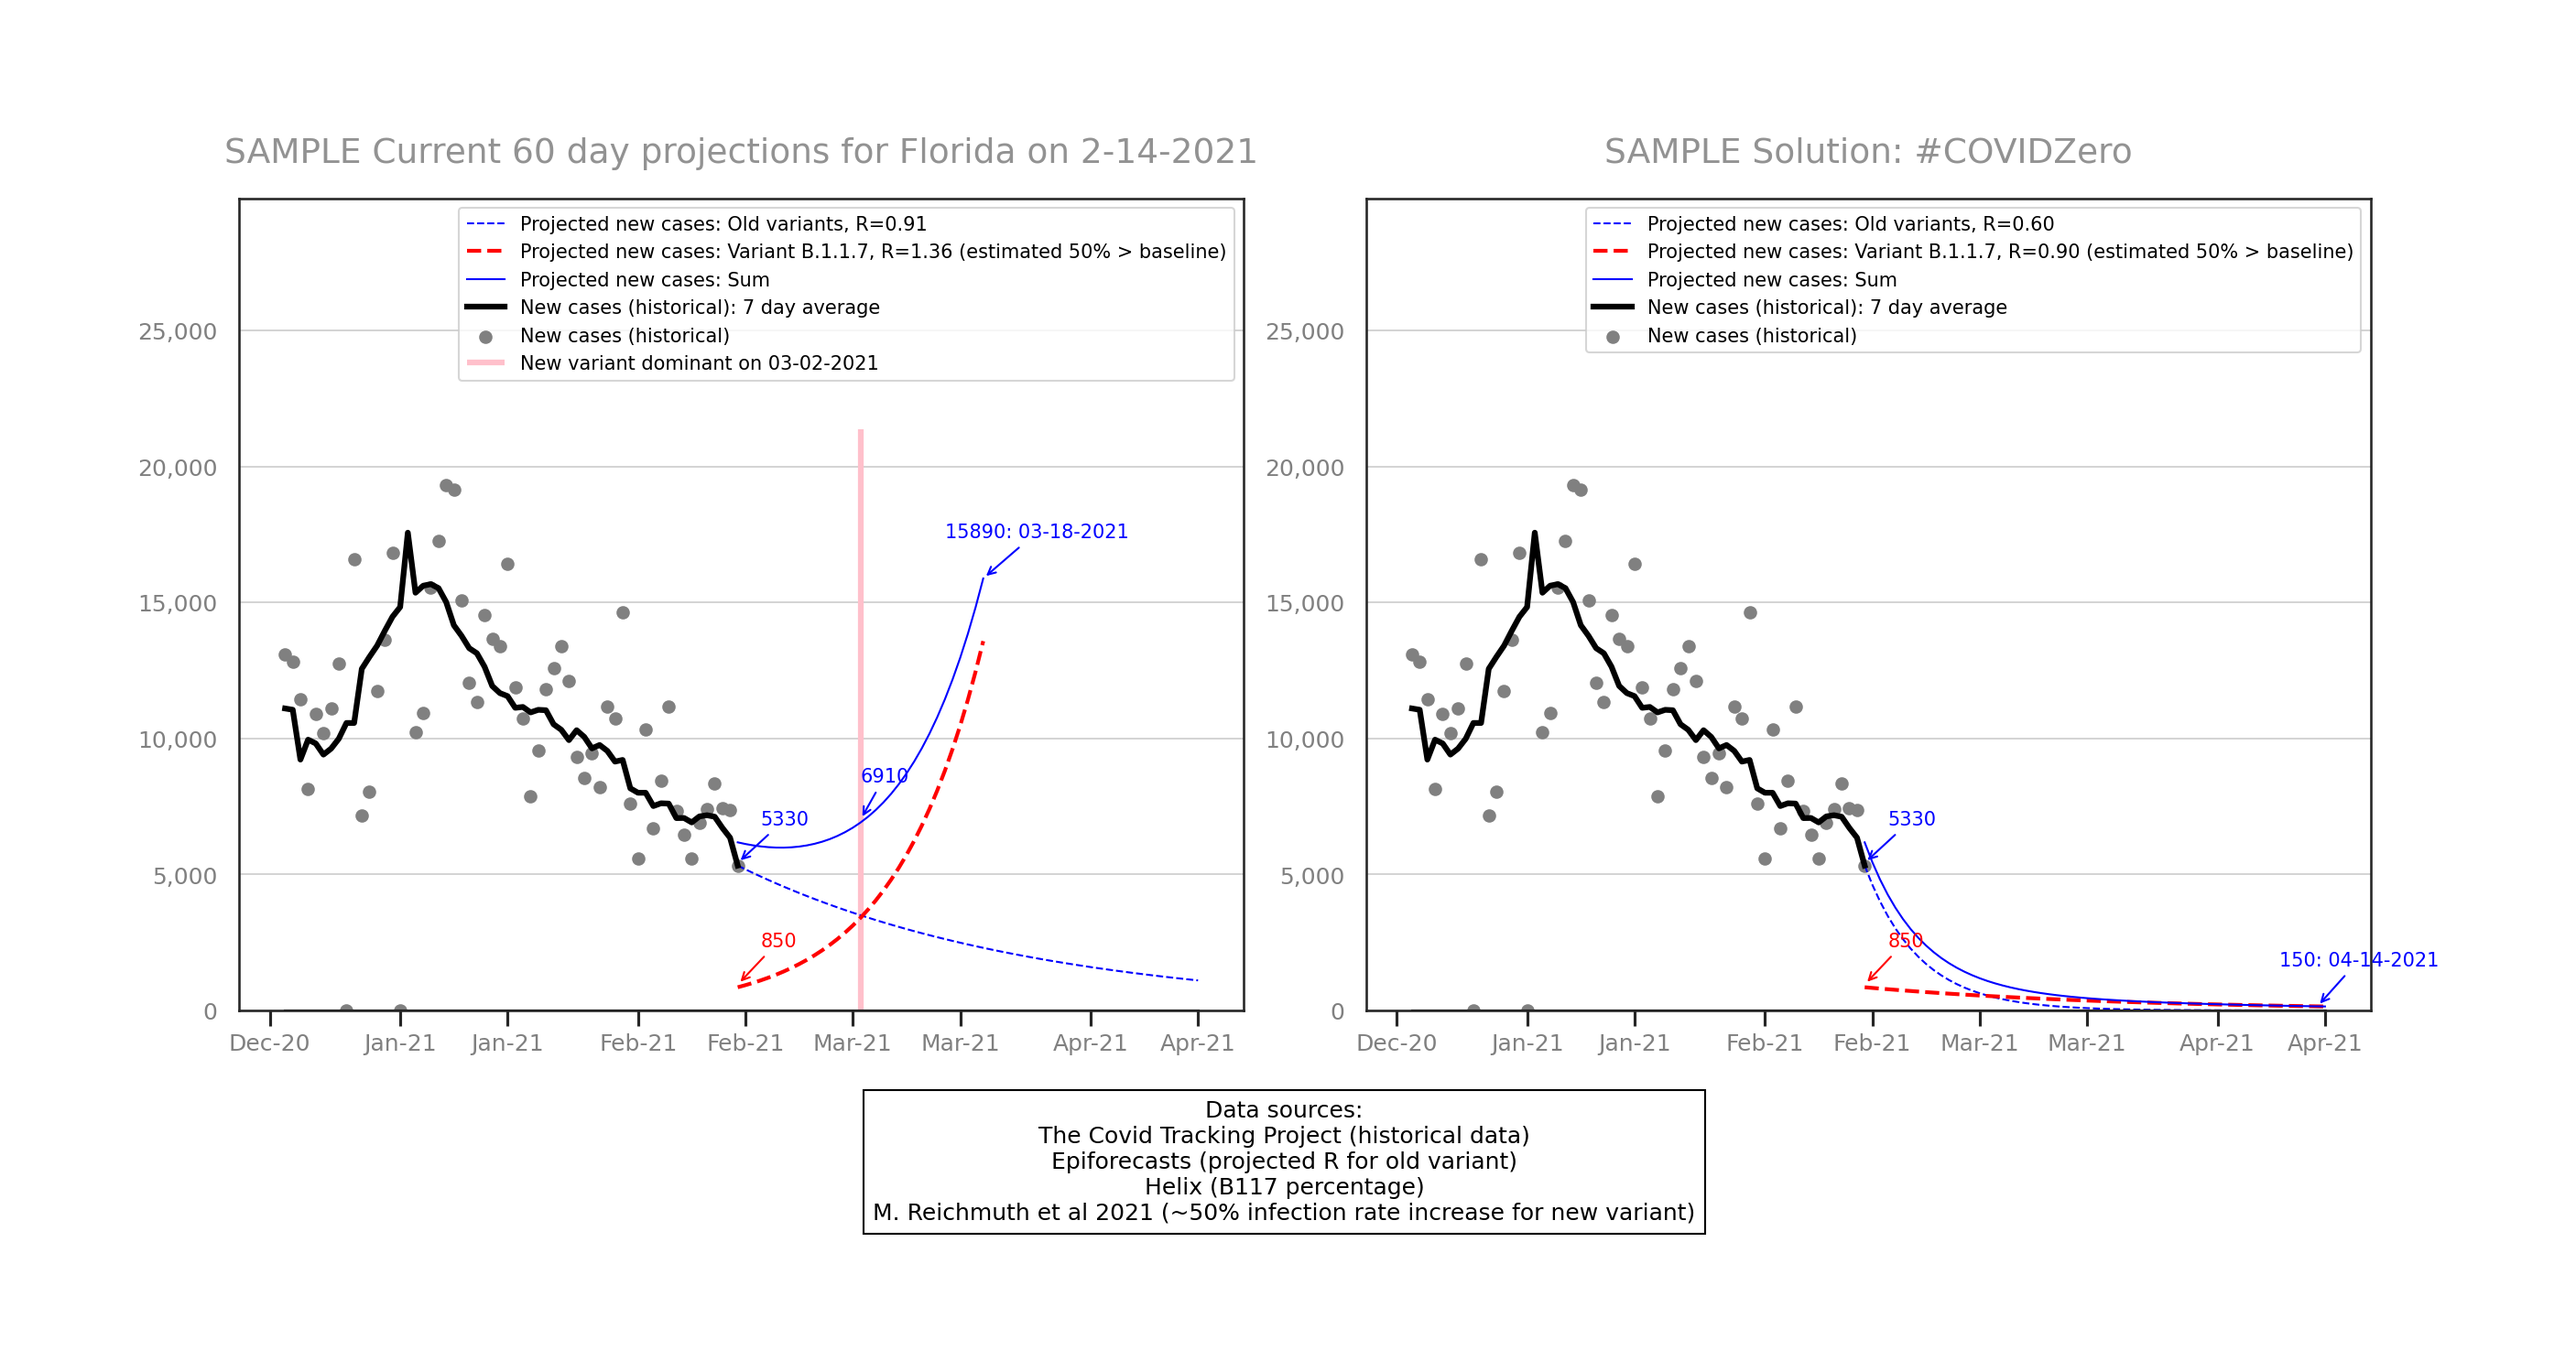
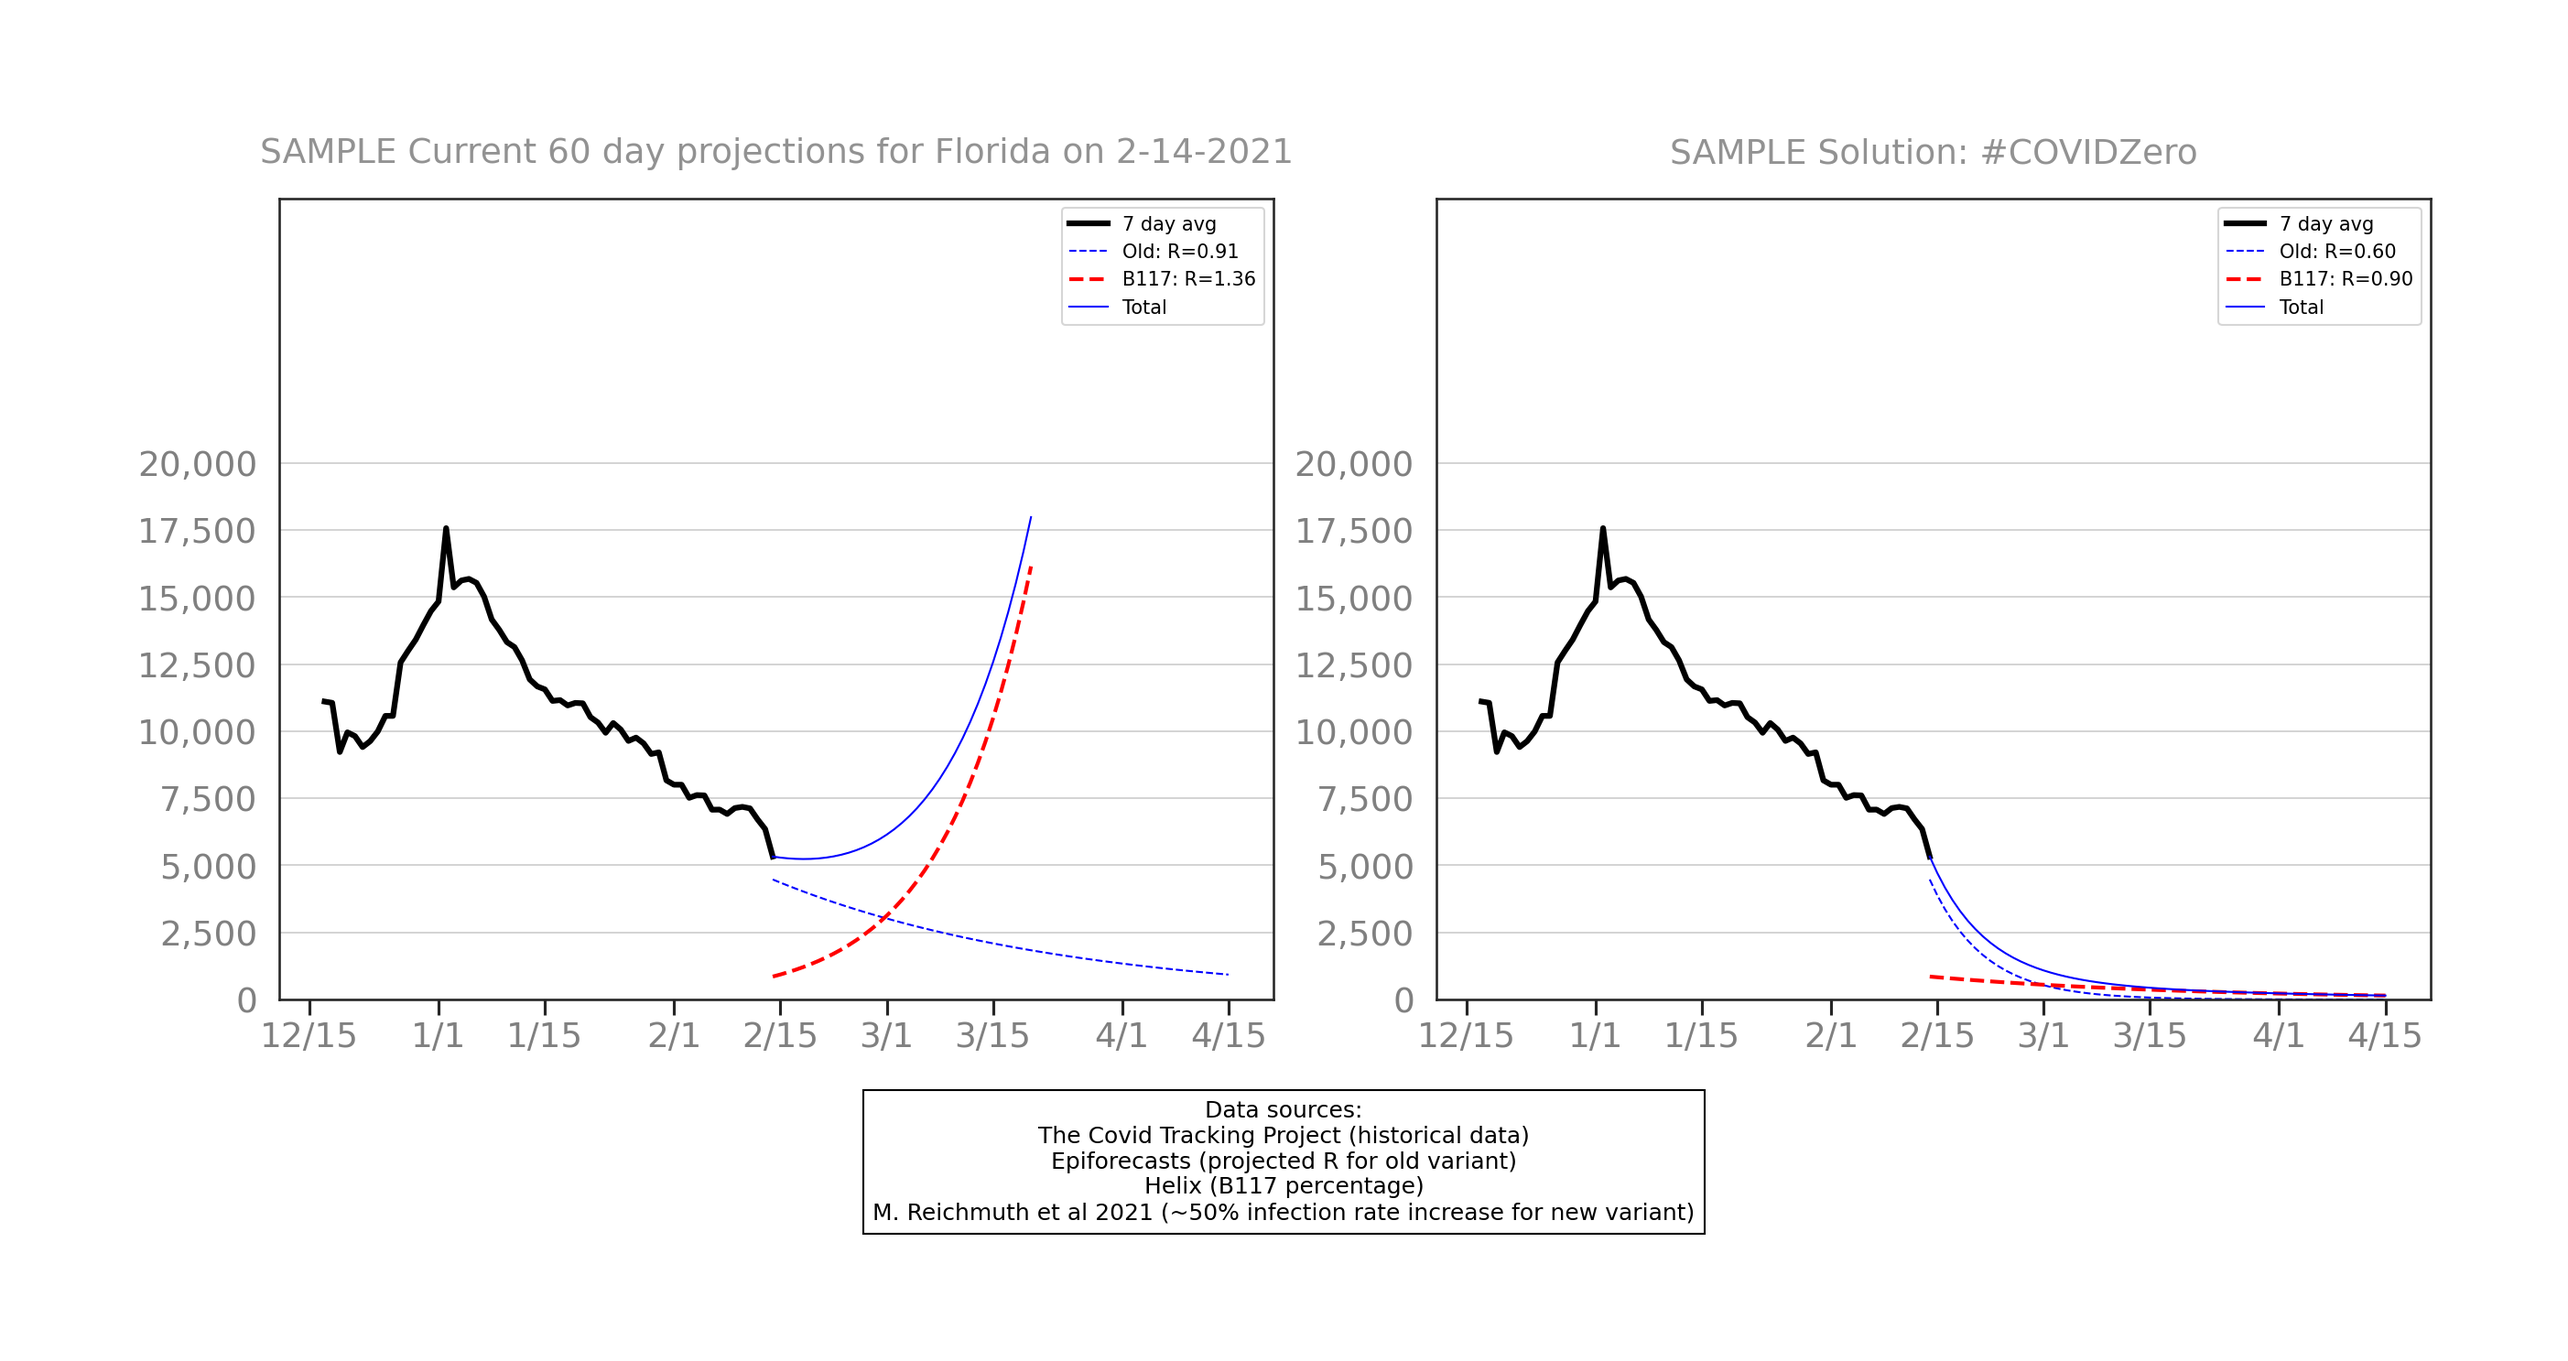
Updates from feedback (2)

diff --git a/new_variant_estimate.py b/new_variant_estimate.py
@@ -17,6 +17,8 @@ import urllib.request, json
 import os
 
 from matplotlib import rcParams
+from labellines import labelLines
+from scipy import ndimage
 
 # Estimate projections for old, new, and combined variants per U.S. state
 
@@ -98,6 +100,8 @@ def projectCases(R, init_cases, n_days=30, pad=0, generation=4):
 
     return projection
 
+
+
 # Get historical data for this state
 def getDataForState(data, state):
 
@@ -146,8 +150,8 @@ def setUpAxis(axis, y_cutoff):
 
   axis.set_ylim((0, int(y_cutoff)))
 
-
-  axis.legend()        
+  if legend:
+    axis.legend()        
 
 
   # SETTING GRID #
@@ -186,7 +190,7 @@ M. Reichmuth et al 2021 (~50% infection rate increase for new variant)"""
 
 # Make a sub-chart of historical and projection data
 def makeSubChart(df_historical, df_r_estimates, df_emerging_variants, state, R_covid, R_variant, 
-    axis, header_text, n_days_data, n_days_projection):
+    axis, header_text, n_days_data, n_days_projection, legend=False):
 
     data=df_historical[:n_days_data]
 
@@ -247,12 +251,12 @@ def makeSubChart(df_historical, df_r_estimates, df_emerging_variants, state, R_c
     x_cutoff = np.where(projection_total > y_cutoff)
 
     if len(x_cutoff) > 0 and x_cutoff[0].size > 0:
-      x_cutoff = x_cutoff[0][0] - 1
+      x_cutoff = x_cutoff[0][0] 
 
       if x_cutoff > 1:
-        projection_total[x_cutoff:] = np.nan
+        projection_total[x_cutoff + 1:] = np.nan
 
-        projection_variant[x_cutoff:] = np.nan
+        projection_variant[x_cutoff + 1:] = np.nan
         #projection_covid[x_cutoff:] = np.nan
     else:
       x_cutoff = -1
@@ -273,85 +277,27 @@ def makeSubChart(df_historical, df_r_estimates, df_emerging_variants, state, R_c
 
 
 
-    # PROJECTION PLOTS #
-    axis.plot(dates, projection_covid, '--', color='blue', lw=1, label=r"Old variants, R=%.2f"% (R_covid))
-    axis.plot(dates, projection_variant, '--', color='red', lw=2, label=r"Variant B117, R=%.2f"%(R_variant))
-    axis.plot(dates, projection_total, color='blue', lw=1, label="Total cases")
- 
-
-
     # HISTORICAL: LINE PLOT #
-    axis.plot(dates, average, color = 'black', lw=3, label='Hitorical cases: 7 day average')
+    axis.plot(dates, average, color = 'black', lw=3, label='7 day avg')
 
 
-    # HISTORICAL: SCATTER PLOT #
-    axis.scatter(x=dates, y=positiveIncrease, color ='grey', label="Historical cases")
+    # PROJECTION PLOTS #
 
-    # PLOT LINE TO KEEP X AXIS VALUES #
-    #axis.plot(dates, np.zeros(dates.size), color='black')
-
-    # VERTICAL LINES
-    # if use_crossover_point:
-    #   crossover_line_height = 0.5*positiveIncrease[:-n_days_projection - 1].max()
-
-    #   crossover_line_str = r"New variant dominant on %s"%(crossover_date.strftime("%m-%d-%Y"))
-    #   axis.vlines(crossover_date, 0, crossover_line_height, color='pink', lw=3, label=crossover_line_str)
-
-    # if x_cutoff > 0:
-    #   cutoff_line_height = 0.7*positiveIncrease[:-n_days_projection - 1].max()
-    #   cutoff_date = dates[x_cutoff - 1]
-    #   crossover_line_str = cutoff_date.strftime("%m-%d-%Y")
-    #   axis.vlines(cutoff_date, 0, cutoff_line_height, color='grey', lw=1, label=crossover_line_str)
-
-
-
-    # ANNOTATIONS
-
-    # # round numbers
-    # init_covid_cases_str = str(int(10*round(init_covid_cases/10))) 
-    # init_variant_cases_str = str(int(10*round(init_variant_cases/10)))
-    # crossover_cases_str = str(int(10*round(crossover_cases/10)))
-    # end_cases_str = str(int(10*round(end_cases/10)))
-    # end_cases_str += ': ' + dates[x_cutoff - 1].strftime("%m-%d-%Y")
-    # # annotate numbers for initial conditions
-    # axis.annotate(init_covid_cases_str, 
-    #   xy=(dates[n_days_data - 1], init_covid_cases + 100),
-    #   xytext=(dates[n_days_data + 2], init_covid_cases + 1500),
-    #   arrowprops=dict(arrowstyle="->", connectionstyle="arc3", color='blue'),
-    #   color='blue')
-    # axis.annotate(init_variant_cases_str, 
-    #   xy=(dates[n_days_data -1 ], init_variant_cases + 100),
-    #   xytext=(dates[n_days_data + 2], init_variant_cases + 1500),
-    #   arrowprops=dict(arrowstyle="->", connectionstyle="arc3", color='red'),
-    #   color='red')
-    # # annotate crossover point
-    # if use_crossover_point:
-    #   axis.annotate(crossover_cases_str, 
-    #     xy=(crossover_date, crossover_cases + 100),
-    #     xytext=(crossover_date, crossover_cases + 1500),
-    #     arrowprops=dict(arrowstyle="->", connectionstyle="arc3", color='blue'),
-    #     color='blue')    
-    # # annotate end value and date
-    # axis.annotate(end_cases_str, 
-    #   xy=(dates[x_cutoff - 1], end_cases + 0),
-    #   xytext=(dates[x_cutoff - 6], end_cases + 1500),
-    #   arrowprops=dict(arrowstyle="->", connectionstyle="arc3", color='blue'),
-    #   color='blue')  
-
-
-
-    
+    old_var_str = r"Old: R=%.2f"% (R_covid)
+    new_var_str = r"B117: R=%.2f"%(R_variant)
+    axis.plot(dates, projection_covid, '--', color='blue', lw=1, label=old_var_str)
+    axis.plot(dates, projection_variant, '--', color='red', lw=2, label=new_var_str)
+    axis.plot(dates, projection_total, color='blue', lw=1, label="Total")
 
 
     # SUBPLOT TITLE#
     axis.set_title(header_text,fontsize=18, y=1.03, alpha=0.5)
 
     setUpAxis(axis, y_cutoff + 0.7*y_cutoff)
- 
 
 
 # Make a two paneled chart for the given state and values
-def makeChart(state, n_days_projection, n_days_data, data_folder, update_data=False):
+def makeChart(state, n_days_projection, n_days_data, data_folder, update_data=False, legend=False):
 
   state_full_name = str(states[state])
   
@@ -376,7 +322,7 @@ def makeChart(state, n_days_projection, n_days_data, data_folder, update_data=Fa
     df_historical = pd.read_csv(filepath_historical)
 
   # SET UP DATA
-  # histoical
+  # historical
   df_historical['date'] = pd.to_datetime(df_historical.date, format='%Y%m%d')
   df_historical = getDataForState(df_historical, state)
 
@@ -407,12 +353,15 @@ def makeChart(state, n_days_projection, n_days_data, data_folder, update_data=Fa
 
   title_current = r'SAMPLE Current %d day projections for %s on %s'% (n_days_projection, state_full_name, date)
   title_covidzero = 'SAMPLE Solution: #COVIDZero'
-  makeSubChart(df_historical, df_r_estimates, df_emerging_variants, state, R_covid, R_variant, axes[0], title_current, n_days_data, n_days_projection)
-  makeSubChart(df_historical, df_r_estimates, df_emerging_variants, state, R_covid_lockdown, R_variant_lockdown, axes[1], title_covidzero, n_days_data, n_days_projection)
+  makeSubChart(df_historical, df_r_estimates, df_emerging_variants, state, R_covid, R_variant, axes[0], title_current, n_days_data, n_days_projection, legend=legend)
+  makeSubChart(df_historical, df_r_estimates, df_emerging_variants, state, R_covid_lockdown, R_variant_lockdown, axes[1], title_covidzero, n_days_data, n_days_projection, legend=legend)
 
   filename = r'figs\projection_%s_%s.png'% (state, date)
 
+
+
   plt.savefig(filename, dpi=150, bbox_inches='tight', pad_inches=1)
+  
   print('Saved ', filename)
   plt.show()
 
@@ -420,13 +369,14 @@ def makeChart(state, n_days_projection, n_days_data, data_folder, update_data=Fa
   
 if __name__ == '__main__':
   # SETTINGS #
-  state = 'MA'
+  state = 'CA'
   n_days_projection = 60
   n_days_data = 60
   data_folder = 'data_02_15'
   update_data = False
+  legend = True
 
-  makeChart(state, n_days_projection, n_days_data, data_folder, update_data)
+  makeChart(state, n_days_projection, n_days_data, data_folder, update_data, legend=legend)
 
 
 # Data Sources:
